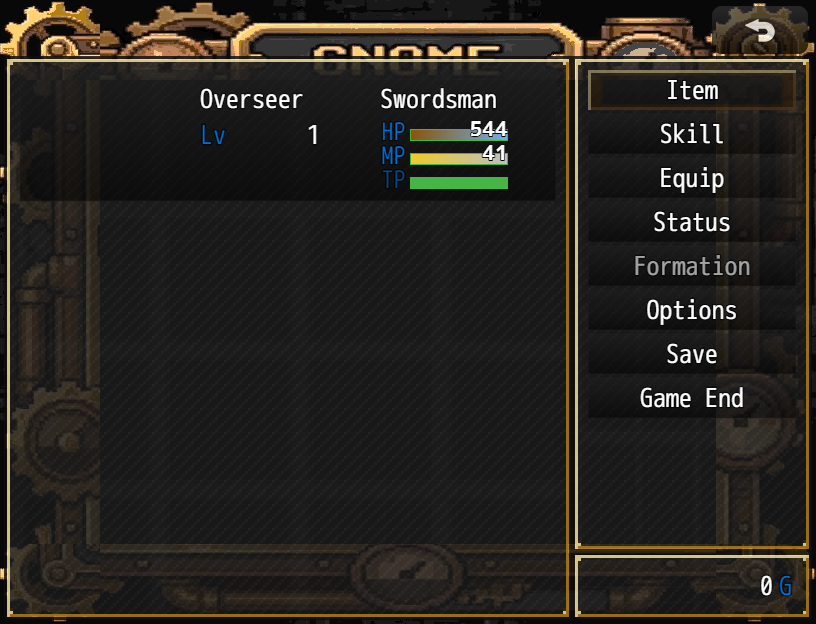
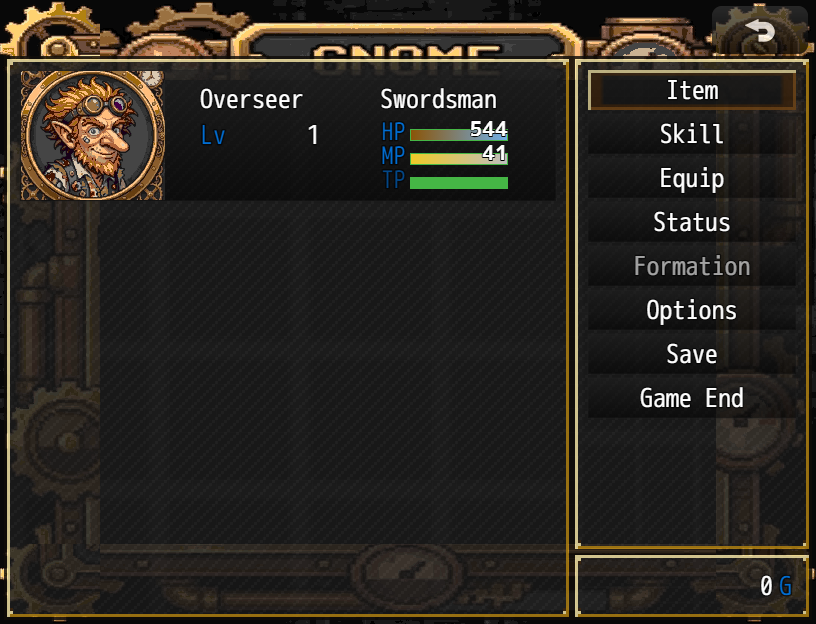
[gemini] in-window cultural faces for faction menus and status windows

Changed region(s): [[0.0, 0.0913, 0.2145, 0.3349], [0.7047, 0.0913, 0.9804, 0.1827]]

diff --git a/game/js/plugins/UF_FactionMenus.js b/game/js/plugins/UF_FactionMenus.js
@@ -283,6 +283,9 @@
             if (w && w instanceof Window_Base) {
                 w.windowskin = skin;
                 w.opacity = 210;
+                if (typeof w.refresh === "function") {
+                    w.refresh();
+                }
             }
         };
         if (this._windowLayer && this._windowLayer.children) {
@@ -293,6 +296,37 @@
                 updateWin(this[key]);
             }
         }
+    };
+
+    // Dynamic Actor Face support for Faction Menus & Windows
+    const _Game_Actor_faceName = Game_Actor.prototype.faceName;
+    Game_Actor.prototype.faceName = function() {
+        const orig = _Game_Actor_faceName.call(this);
+        if (orig && orig !== "U7_Faces" && orig !== "") return orig;
+        const faction = safeFaction(UF_FactionMenus.getFaction());
+        return `UF_Faces_${faction === "default" ? "human" : faction}_1`;
+    };
+
+    const _Game_Actor_faceIndex = Game_Actor.prototype.faceIndex;
+    Game_Actor.prototype.faceIndex = function() {
+        const origName = _Game_Actor_faceName.call(this);
+        if (origName && origName !== "U7_Faces" && origName !== "") return _Game_Actor_faceIndex.call(this);
+        return 0;
+    };
+
+    const _Window_Base_drawFace = Window_Base.prototype.drawFace;
+    Window_Base.prototype.drawFace = function(faceName, faceIndex, x, y, width, height) {
+        if (faceName) {
+            const bmp = ImageManager.loadFace(faceName);
+            if (bmp && !bmp.isReady()) {
+                bmp.addLoadListener(() => {
+                    if (this && this.contents && typeof this.refresh === "function") {
+                        this.refresh();
+                    }
+                });
+            }
+        }
+        _Window_Base_drawFace.call(this, faceName, faceIndex, x, y, width, height);
     };
 
     // Keyboard navigation to preview / cycle faction themes in Scene_Menu
@@ -352,13 +386,15 @@
                 UF_FactionMenus.setFaction(fac);
                 const bmp = ImageManager.loadPicture(`UF_Menu_${fac}`);
                 const skin = ImageManager.loadSystem(`Window_${fac}`);
+                const faceName = `UF_Faces_${fac === "default" ? "human" : fac}_1`;
+                const face = ImageManager.loadFace(faceName);
 
-                await t.waitUntil(() => bmp.isReady() && skin.isReady(), 5000, `UF_Menu_${fac} assets ready`);
-                await t.waitFrames(8);
+                await t.waitUntil(() => bmp.isReady() && skin.isReady() && face.isReady(), 5000, `UF_Menu_${fac} and ${faceName} assets ready`);
+                await t.waitFrames(10);
                 t.screenshot(`menu_clean_${fac}`);
             }
 
-            t.check("menu_themes_rendered", true, "All 12 clean matching menus captured without selector cursors");
+            t.check("menu_themes_rendered", true, "All 12 clean matching menus with faction faces captured without selector cursors");
             SceneManager.pop();
             await t.waitFrames(10);
         });

diff --git a/docs/STATUS.md b/docs/STATUS.md
@@ -30,13 +30,15 @@ Delivered per user directives ("Ensure all of the cursors are pointy. Also, make
 - **Default Main Menu Backdrop & Windowskin**:
   - `UF_Menu_default.png` (816×624): Carved stone pillars, battlements, griffin gargoyles flanking a fortress crown crest, seamless dark slate masonry interior pattern with zero baked-in text.
   - `Window_default.png` (192×192): Clean fortress granite border, burnished bronze corner brackets, translucent slate stone backplate.
-- **Engine Integration (`UF_FactionMenus.js`)**:
+- **In-Window Faction Faces & Engine Integration (`UF_FactionMenus.js`)**:
   - `Scene_Title` displays `UF_Menu_default.png`, `Window_default.png`, and `Cursor_default.png`.
   - Zero selector cursor sprites rendered on menu command windows; all cursor behavior is native literal mouse cursors.
+  - `Window_MenuStatus` and menu windows dynamically render the matching 144×144 U7-framed faction face (`UF_Faces_<fac>_1`, index 0) for the Overseer / party leader, perfectly filling the designated face slot beside the status stats.
+  - Dynamic cycling: cycling faction themes via Tab / bracket keys simultaneously updates the 816×624 wallpaper, 192×192 windowskin, 48×48 pointy cursor, and the 144×144 in-window actor face in lockstep.
 - **Quality Gates & Verification Evidence**:
   - `tools/originality_check.js`: **PASS 5/5 files without a FAIL, 0 WARN** (Cursor_default 0.464, Cursor_dwarf 0.450, Cursor_orc 0.508, UF_Menu_default 0.323, Window_default 0.555 >= 0.28).
   - Automated tests: `tools/test_faction_menus_clean.js` **8 passed, 0 failed (exit 0)**.
-  - Visual Evidence: Master review board in `art/review/all_pointy_cursors_and_default_menu_showcase.png`, cursor hotspot inspection in `art/review/all_cursors_inspected.png`, live menu capture in `art/review/menus/faction_menus.menu_clean_default.png`.
+  - Visual Evidence: Master review board in `art/review/all_pointy_cursors_and_default_menu_showcase.png`, cursor hotspot inspection in `art/review/all_cursors_inspected.png`, live menu captures with in-window faction faces in `art/review/menus/faction_menus.menu_clean_*.png`.
 
 ## Wildlife 100% Google Nano Banana Pro Action Suites (Eat, Attack, Sleep) — 2026-09-19 (Gemini)
 Delivered per user directives ("Generate with Nano Banana Pro", "Wildlife needs eat, attack, and sleep animations", "ONE CREATURE / DEMOGRAPHIC AT A TIME WITH INVARIANT UNIFORM SCALE", "12 SPRITES AT A TIME WITH FIRST SHEET AS IMAGE REFERENCE", "ZERO FLYING PROJECTILES ON SPRITE SHEETS; SPELL INITIATION ONLY"):
